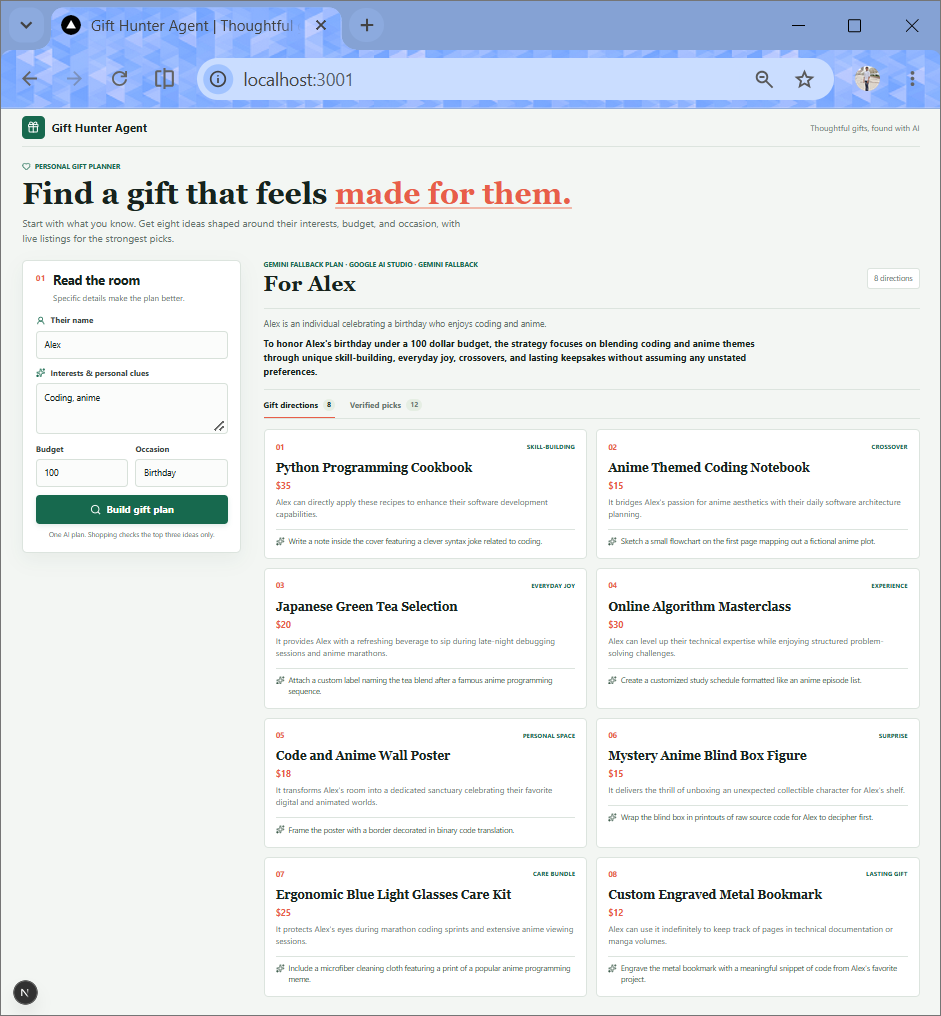
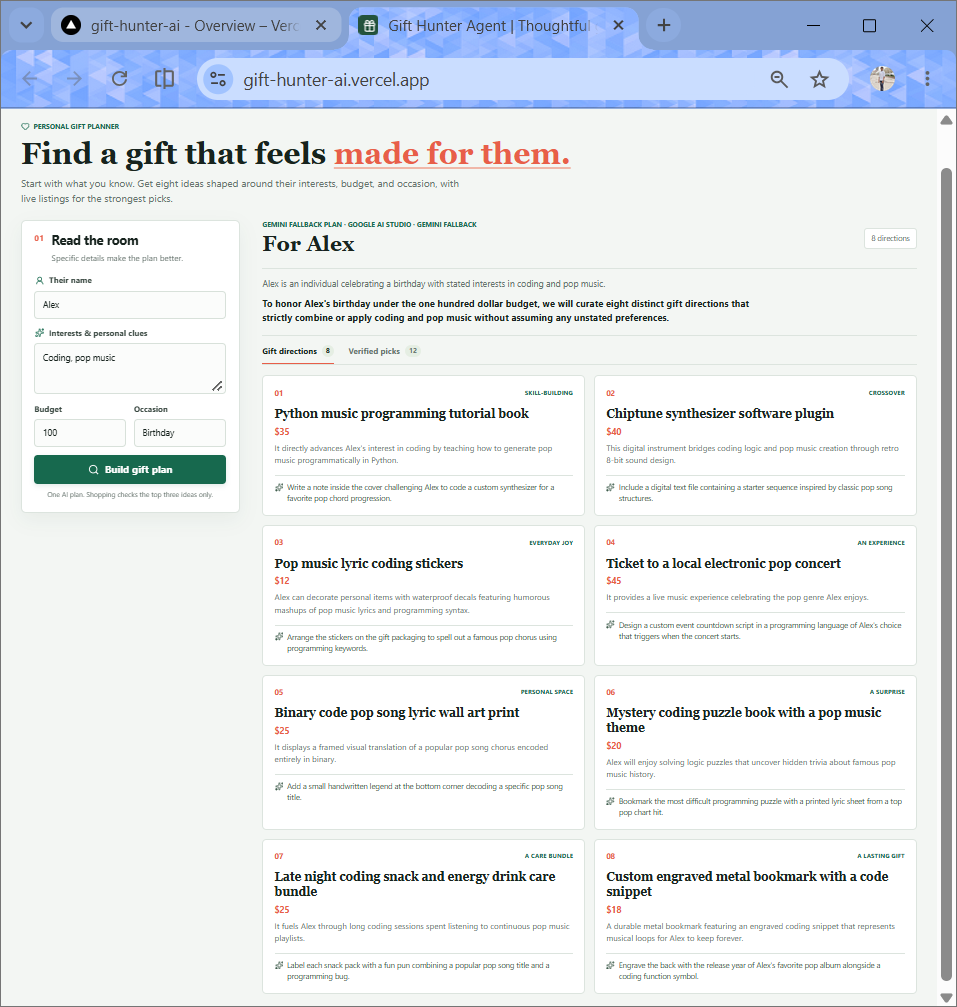
docs(readme): showcase deployed gift planning and shopping flow

Changed region(s): [[0.0, 0.0, 1.0, 1.0], [0.0, 0.9543, 0.0616, 0.9851]]

diff --git a/README.md b/README.md
@@ -5,18 +5,18 @@ Gift Hunter Agent turns what you know about someone into a thoughtful gift plan:
 ## Screenshots
 
 <figure>
-  <img src="docs/screenshots/gift-directions.png" alt="Gift Hunter Agent showing the recipient form and eight personalized gift directions" width="100%">
-  <figcaption><strong>Gift directions.</strong> The plan connects Alex's coding and anime interests to eight ideas within the birthday budget.</figcaption>
+  <img src="docs/screenshots/gift-directions.png" alt="Deployed Gift Hunter Agent showing the recipient form and eight personalized gift directions" width="100%">
+  <figcaption><strong>Gift directions.</strong> The deployed app turns Alex's coding and pop-music interests into eight birthday ideas within a $100 budget.</figcaption>
 </figure>
 
 <figure>
-  <img src="docs/screenshots/verified-picks.png" alt="Verified shopping picks grouped beneath two gift directions" width="100%">
-  <figcaption><strong>Verified picks.</strong> Product listings are grouped by gift direction, with prices and retailer links visible.</figcaption>
+  <img src="docs/screenshots/verified-picks.png" alt="Deployed shopping view showing verified product picks grouped beneath two gift directions" width="100%">
+  <figcaption><strong>Verified picks.</strong> The live site groups priced product listings under the two matching gift directions.</figcaption>
 </figure>
 
 <figure>
-  <img src="docs/screenshots/verified-picks-expanded.png" alt="Expanded shopping view with more listings for each gift direction" width="100%">
-  <figcaption><strong>Expanded shortlist.</strong> The expanded view shows additional listings while keeping each idea's products together.</figcaption>
+  <img src="docs/screenshots/verified-picks-expanded.png" alt="Expanded deployed shopping view with additional product listings for each gift direction" width="100%">
+  <figcaption><strong>Expanded shortlist.</strong> Review more live listings while keeping each product grouped with its gift idea.</figcaption>
 </figure>
 
 ## What It Does
